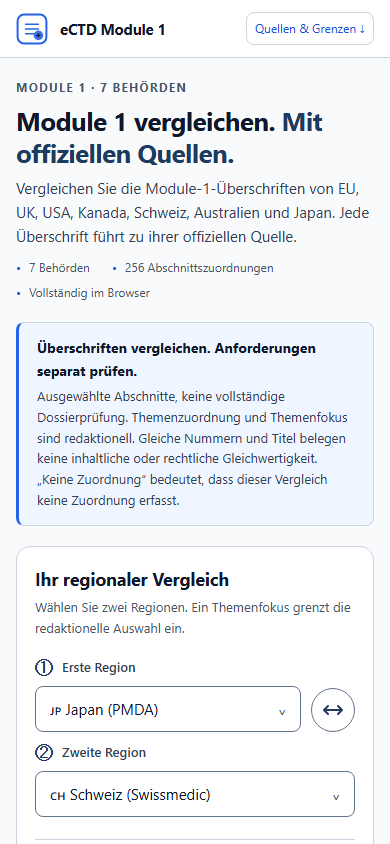
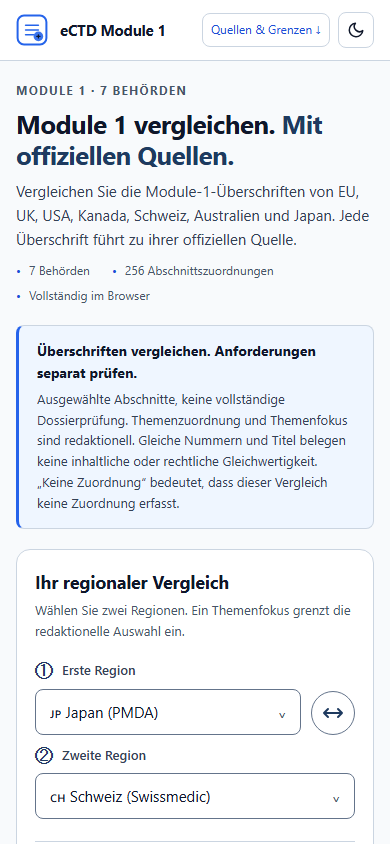
Add light/dark theme switch (8.1.0)
- Add a sun/moon button in the header that overrides the device setting.
- Remember the choice in the browser as `ectd-theme`, the only value the
  site stores, and apply it before first paint to avoid a flash.
- Keep print output light in every theme.
- Update tests, documentation and screenshots.

diff --git a/style.css b/style.css
@@ -13,7 +13,7 @@
   --font-sans:system-ui,-apple-system,BlinkMacSystemFont,'Segoe UI',sans-serif; --font-mono:ui-monospace,SFMono-Regular,Menlo,Consolas,monospace;
 }
 @media screen and (prefers-color-scheme:dark) {
-  :root {
+  :root:not([data-theme="light"]) {
     --bg-primary:#0b1220; --bg-secondary:#131c2e; --bg-card:#111a2b; --bg-header:#0e1626; --bg-table-head:#1a2438; --bg-row-hover:#162033; --bg-control-subtle:#27324a;
     --text-primary:#e8edf5; --text-secondary:#b8c4d6; --text-muted:#a3b1c6; --text-accent:#bfdbfe;
     --link:#93c5fd; --link-hover:#dbeafe; --focus:#93c5fd; --border-color:#2b3850; --border-control:#6b7c96;
@@ -24,6 +24,20 @@
     --toast-bg:#e8edf5; --toast-text:#0f172a; --toast-border:#94a3b8; --shadow:0 4px 20px rgb(0 0 0 / 50%);
   }
 }
+@media screen {
+  :root[data-theme="dark"] {
+    color-scheme:dark;
+    --bg-primary:#0b1220; --bg-secondary:#131c2e; --bg-card:#111a2b; --bg-header:#0e1626; --bg-table-head:#1a2438; --bg-row-hover:#162033; --bg-control-subtle:#27324a;
+    --text-primary:#e8edf5; --text-secondary:#b8c4d6; --text-muted:#a3b1c6; --text-accent:#bfdbfe;
+    --link:#93c5fd; --link-hover:#dbeafe; --focus:#93c5fd; --border-color:#2b3850; --border-control:#6b7c96;
+    --primary:#2563eb; --on-primary:#ffffff; --primary-border:#60a5fa;
+    --accent-soft:#172c4d; --on-accent-soft:#bfdbfe; --accent-soft-border:#3b6ba8; --code-bg:#252d4a; --code-text:#c7d2fe;
+    --ok-bg:#15322b; --ok-text:#a7e9c6; --ok-border:#345750; --warn-bg:#342b19; --warn-text:#eccf91; --warn-border:#d7b66b; --neutral-bg:#263044; --neutral-text:#c5d1e3; --error-bg:#492528; --error-text:#ffc9c6; --error-border:#cc7c85;
+    --info-bg:#131f36; --info-border:#60a5fa;
+    --toast-bg:#e8edf5; --toast-text:#0f172a; --toast-border:#94a3b8; --shadow:0 4px 20px rgb(0 0 0 / 50%);
+  }
+}
+:root[data-theme="light"] { color-scheme:light; }
 * { box-sizing:border-box; }
 html { scroll-behavior:smooth; }
 body { margin:0; font:var(--text-md)/1.6 var(--font-sans); background:var(--bg-primary); color:var(--text-primary); }
@@ -44,6 +58,10 @@ button:focus-visible,a:focus-visible,summary:focus-visible,input:focus-visible,s
 .logo-icon svg { display:block; width:36px; height:36px; }
 .logo-title { margin:0; font-size:17px; letter-spacing:-.2px; }
 .logo-subtitle { margin:0; font-size:var(--text-xs); color:var(--text-muted); }
+.header-actions { display:flex; align-items:center; gap:8px; flex-shrink:0; }
+.theme-toggle { display:inline-flex; align-items:center; justify-content:center; width:36px; height:36px; padding:0; border:1px solid var(--border-color); border-radius:8px; background:none; color:var(--text-primary); }
+.theme-toggle:hover { border-color:var(--border-control); background:var(--bg-secondary); }
+.theme-toggle[data-current="dark"] .theme-icon-moon,.theme-toggle[data-current="light"] .theme-icon-sun { display:none; }
 .header-badge { display:inline-flex; align-items:center; font-size:var(--text-xs); padding:8px 14px; border:1px solid var(--border-color); border-radius:8px; text-decoration:none; }
 .header-badge:hover { border-color:var(--border-control); }
 .main-content { max-width:1400px; margin:auto; padding:28px 28px 60px; }
@@ -151,7 +169,7 @@ button:disabled,select:disabled,input:disabled { opacity:.55; cursor:not-allowed
   .spec-info { grid-template-columns:1fr; gap:14px; padding:16px; }.spec-vs { display:none; }.spec-region + .spec-vs + .spec-region { border-top:1px solid var(--border-color); padding-top:14px; }
   .toolbar-left { flex-basis:100%; }.search-box { flex-basis:100%; }.toolbar-right { width:100%; }.comparison-table { min-width:850px; }.sources-panel { padding:16px; }
 }
-@media (pointer:coarse) { .filter-pill,.export-btn,.custom-select,.search-input,.header-badge { min-height:44px; }.search-clear { top:8px; }.tree-toggle,.tree-toggle-spacer { flex-basis:32px; height:32px; }.search-icon { top:14px; }.select-arrow { top:9px; } }
+@media (pointer:coarse) { .filter-pill,.export-btn,.custom-select,.search-input,.header-badge { min-height:44px; }.theme-toggle { width:44px; height:44px; }.search-clear { top:8px; }.tree-toggle,.tree-toggle-spacer { flex-basis:32px; height:32px; }.search-icon { top:14px; }.select-arrow { top:9px; } }
 @media (prefers-reduced-motion:reduce) { html { scroll-behavior:auto; } *,*::before,*::after { transition:none !important; } }
 @media print {
   :root { color-scheme:light; --text-primary:#111; --text-secondary:#333; --text-muted:#444; --text-accent:#333; --link:#333; --border-color:#bbb; }

diff --git a/tests/browser/app.spec.js b/tests/browser/app.spec.js
@@ -60,6 +60,45 @@ test('authority placement restrictions appear beside the heading', async ({ page
   await expect(page.locator('[data-row-id="fee-forms"]')).toContainText('keine Dokumente hier ablegen');
 });
 
+test('theme switch overrides the device setting and remembers the choice', async ({ browser, baseURL }) => {
+  const context = await browser.newContext({ colorScheme: 'dark', baseURL });
+  const page = await context.newPage();
+  const errors = [];
+  page.on('pageerror', error => errors.push(error.message));
+  const background = () => page.evaluate(() => getComputedStyle(document.body).backgroundColor);
+  await page.goto('./');
+  const toggle = page.locator('#themeToggle');
+  await expect(toggle).toBeVisible();
+  await expect(toggle).toHaveAttribute('aria-label', 'Zum hellen Design wechseln');
+  const dark = await background();
+  await toggle.click();
+  await expect(toggle).toHaveAttribute('aria-label', 'Zum dunklen Design wechseln');
+  const light = await background();
+  expect(light).not.toBe(dark);
+  expect(await page.locator('.logo-title').evaluate(element => getComputedStyle(element).color)).not.toBe(light);
+  await page.reload();
+  await expect(page.locator('html')).toHaveAttribute('data-theme', 'light');
+  expect(await background()).toBe(light);
+  expect(await page.evaluate(() => Object.keys(localStorage))).toEqual(['ectd-theme']);
+  await page.locator('#themeToggle').click();
+  expect(await background()).toBe(dark);
+  await page.emulateMedia({ media: 'print' });
+  expect(await background()).not.toBe(dark);
+  expect(errors).toEqual([]);
+  await context.close();
+});
+
+test('theme switch follows a light device by default and fits on a phone', async ({ browser, baseURL }) => {
+  const context = await browser.newContext({ colorScheme: 'light', baseURL, viewport: { width: 375, height: 700 } });
+  const page = await context.newPage();
+  await page.goto('./');
+  await expect(page.locator('#themeToggle')).toHaveAttribute('aria-label', 'Zum dunklen Design wechseln');
+  await expect(page.locator('#themeToggle')).toBeInViewport();
+  expect(await page.evaluate(() => document.documentElement.scrollWidth <= innerWidth)).toBe(true);
+  expect(await page.evaluate(() => localStorage.length)).toBe(0);
+  await context.close();
+});
+
 test('keeps regions distinct and swaps their selected values', async ({ page }) => {
   await page.goto('./?a=ca&b=au');
   await expect(page.locator('#regionA option[value="au"]')).toBeDisabled();

diff --git a/theme.js b/theme.js
@@ -1,0 +1,51 @@
+/* Applies the saved theme before first paint and connects the header switch. */
+(function attachTheme(global) {
+  'use strict';
+  const KEY = 'ectd-theme';
+  const COLORS = { light: '#ffffff', dark: '#0e1626' };
+  const root = global.document.documentElement;
+  const systemDark = global.matchMedia('(prefers-color-scheme: dark)');
+
+  function savedTheme() {
+    try {
+      const value = global.localStorage.getItem(KEY);
+      return value === 'light' || value === 'dark' ? value : null;
+    } catch { return null; }
+  }
+
+  function saveTheme(theme) {
+    try { global.localStorage.setItem(KEY, theme); } catch { /* The switch still works until the page reloads. */ }
+  }
+
+  const currentTheme = () => root.dataset.theme || (systemDark.matches ? 'dark' : 'light');
+
+  function applyTheme(theme) {
+    root.dataset.theme = theme;
+    global.document.querySelectorAll('meta[name="theme-color"]').forEach(meta => { meta.content = COLORS[theme]; });
+  }
+
+  function renderSwitch(button) {
+    const theme = currentTheme();
+    const label = theme === 'dark' ? 'Zum hellen Design wechseln' : 'Zum dunklen Design wechseln';
+    button.dataset.current = theme;
+    button.setAttribute('aria-label', label);
+    button.title = label;
+  }
+
+  const initial = savedTheme();
+  if (initial) applyTheme(initial);
+
+  global.document.addEventListener('DOMContentLoaded', () => {
+    const button = global.document.getElementById('themeToggle');
+    if (initial) applyTheme(initial);
+    renderSwitch(button);
+    button.hidden = false;
+    button.addEventListener('click', () => {
+      const next = currentTheme() === 'dark' ? 'light' : 'dark';
+      applyTheme(next);
+      saveTheme(next);
+      renderSwitch(button);
+    });
+    systemDark.addEventListener('change', () => renderSwitch(button));
+  });
+})(globalThis);

diff --git a/index.html b/index.html
@@ -10,6 +10,7 @@
   <meta name="referrer" content="no-referrer">
   <meta http-equiv="Content-Security-Policy" content="default-src 'self'; script-src 'self'; style-src 'self' 'unsafe-inline'; img-src 'self' data:; connect-src 'self'; object-src 'none'; base-uri 'self'; form-action 'none'">
   <link rel="stylesheet" href="style.css">
+  <script src="theme.js"></script>
 </head>
 <body>
   <a class="skip-link" href="#referenceWorkspace">Zum Arbeitsbereich springen</a>
@@ -31,7 +32,13 @@
           <p class="logo-subtitle">Regionaler Vergleich</p>
         </div>
       </div>
-      <a class="header-badge" href="#sourcesPanel">Quellen &amp; Grenzen ↓</a>
+      <div class="header-actions">
+        <a class="header-badge" href="#sourcesPanel">Quellen &amp; Grenzen ↓</a>
+        <button type="button" class="theme-toggle" id="themeToggle" hidden>
+          <svg class="theme-icon-sun" width="18" height="18" viewBox="0 0 24 24" fill="none" stroke="currentColor" stroke-width="2" stroke-linecap="round" aria-hidden="true"><circle cx="12" cy="12" r="4"/><path d="M12 2v2M12 20v2M4.9 4.9l1.4 1.4M17.7 17.7l1.4 1.4M2 12h2M20 12h2M4.9 19.1l1.4-1.4M17.7 6.3l1.4-1.4"/></svg>
+          <svg class="theme-icon-moon" width="18" height="18" viewBox="0 0 24 24" fill="none" stroke="currentColor" stroke-width="2" stroke-linecap="round" stroke-linejoin="round" aria-hidden="true"><path d="M21 12.8A9 9 0 1 1 11.2 3a7 7 0 0 0 9.8 9.8z"/></svg>
+        </button>
+      </div>
     </div>
   </header>
 

diff --git a/scripts/capture-doc-screenshots.js b/scripts/capture-doc-screenshots.js
@@ -28,7 +28,7 @@ async function row(page, id) {
   await capture('02-pointer.png', { url: './?a=eu&b=us', prepare: page => row(page, 'environment') });
   await capture('03-source-fallback.png', { url: './?a=eu&b=us', prepare: page => row(page, 'experts') });
   await capture('04-placement-restriction.png', { url: './?a=ca&b=au&q=fee', prepare: page => row(page, 'fee-forms') });
-  await capture('05-dark-mode.png', { url: './?a=eu&b=ch', scheme: 'dark' });
+  await capture('05-dark-mode.png', { url: './?a=eu&b=ch', prepare: async page => { await page.locator('#themeToggle').click(); await page.waitForTimeout(400); return null; } });
   await capture('06-mobile.png', { url: './?a=jp&b=ch', viewport: { width: 390, height: 844 } });
   await capture('07-sources.png', { url: './', prepare: async page => {
     await page.locator('#sourcesPanel summary').click();

diff --git a/scripts/build.js b/scripts/build.js
@@ -3,7 +3,7 @@ const fs = require('node:fs');
 const path = require('node:path');
 const root = path.resolve(__dirname, '..');
 const destination = path.join(root, 'dist');
-const assets = ['index.html', 'style.css', 'core.js', 'data.js', 'zip.js', 'app.js', 'VALIDATION_REPORT.md'];
+const assets = ['index.html', 'style.css', 'theme.js', 'core.js', 'data.js', 'zip.js', 'app.js', 'VALIDATION_REPORT.md'];
 // An explicit allowlist keeps development files out of the published site.
 for (const asset of assets) {
   if (!fs.statSync(path.join(root, asset)).isFile()) throw new Error(`Missing asset: ${asset}`);

diff --git a/CONFLUENCE_PROJECT_DOCUMENTATION.md b/CONFLUENCE_PROJECT_DOCUMENTATION.md
@@ -2,7 +2,7 @@
 
 | Document field | Value |
 |---|---|
-| Application version | 8.0.0 |
+| Application version | 8.1.0 |
 | Dataset version | 2026.11.03-3 |
 | Source validation date | 3 November 2026 |
 | Status | Reference tool. Source validation has not had independent review |
@@ -75,7 +75,7 @@ The **Quellen, Prüfstand & Grenzen der Prüfung** panel lists the source, locat
 
 ### Display options
 
-The site follows the device's light or dark setting and works on phones. In a narrow window, the table scrolls sideways inside its own area.
+The site starts with the device's light or dark setting. The sun/moon button in the header switches between them, and the browser remembers that choice. The site also works on phones. In a narrow window, the table scrolls sideways inside its own area.
 
 | Dark mode | Phone |
 |---|---|
@@ -162,13 +162,14 @@ The site is static, with no backend and no runtime dependencies. All comparison 
 | `data.js` | Regions, headings, pointers and dataset metadata |
 | `zip.js` | Planning ZIP creation |
 | `app.js` | Interface, state and exports |
+| `theme.js` | Light/dark switch and remembering the choice |
 | `style.css` | Themes, responsive layout and print rules |
 | `tests/` | Reference tests and browser tests |
 | `scripts/` | Build, local server and documentation screenshots |
 
 The app checks its own data when it starts and refuses to show results if it finds structural errors, such as duplicate numbers or a pointer that conflicts with a recorded heading.
 
-**Privacy and security:** the site has no login, uploads, cookies or browser storage, and its security policy allows resources only from its own origin. Search terms and selections appear in the page address, so shared links reveal them. Opening a source link connects to that authority's website.
+**Privacy and security:** the site has no login, uploads or cookies. It stores only the chosen theme in the browser, under `ectd-theme`, and nothing else. Its security policy allows resources only from its own origin. Search terms and selections appear in the page address, so shared links reveal them. Opening a source link connects to that authority's website.
 
 **Publishing:** GitHub Pages publishes from `master` after the tests pass. Pull requests run the tests without publishing.
 

diff --git a/design-system/ectd-workspace/MASTER.md b/design-system/ectd-workspace/MASTER.md
@@ -5,7 +5,7 @@ Reviewed output of the [UI/UX Pro Max skill](https://github.com/nextlevelbuilder
 ## Accepted
 
 - **Style:** Minimalism & Swiss. Grid-based, dense, functional, without decorative effects.
-- **Palette:** navy primary `#1E3A5F`, blue links and focus, slate neutrals. Dark values follow `prefers-color-scheme`; print always uses the light values.
+- **Palette:** navy primary `#1E3A5F`, blue links and focus, slate neutrals. The device setting chooses the first theme, and the header switch overrides it. The choice is stored as `ectd-theme`. Print always uses the light values.
 - **Status colors:** green for match, amber for partial, slate for no mapping. A status always carries its text label, never color alone.
 - **Contrast:** at least 4.5:1 for text and 3:1 for control boundaries, in both themes.
 - **Type:** 15px body, 13px tables and notes, 12px minimum.
